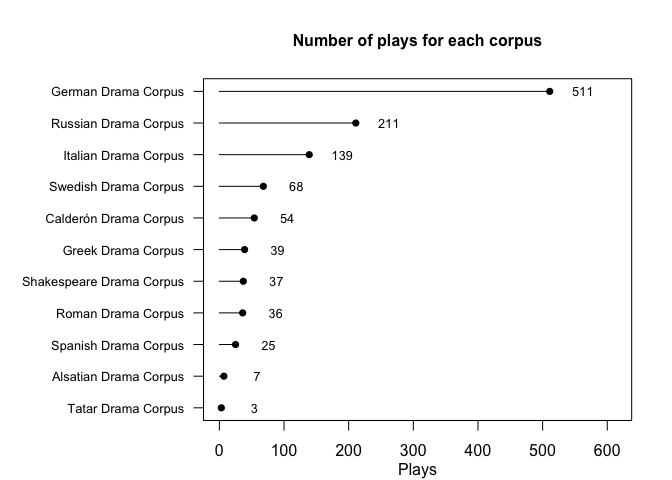
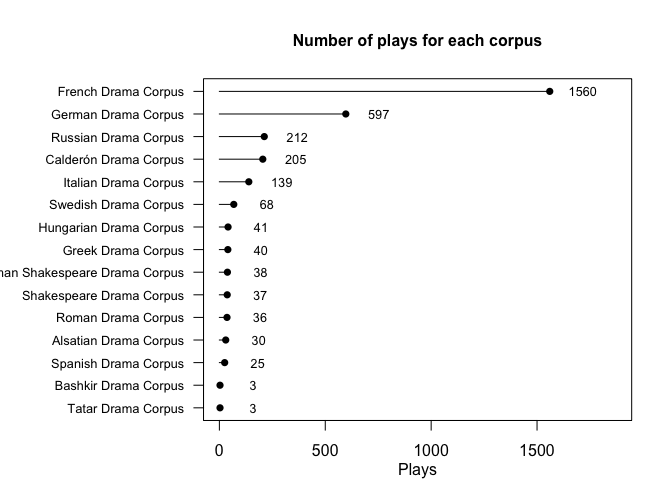
update readme

diff --git a/README.md b/README.md
@@ -6,9 +6,9 @@
 <!-- badges: start -->
 
 [![Travis build
-status](https://travis-ci.org/Pozdniakov/rdracor.svg?branch=master)](https://travis-ci.org/Pozdniakov/rdracor)
+status](https://travis-ci.org/dracor-org/rdracor.svg?branch=master)](https://travis-ci.org/dracor-org/rdracor)
 [![Codecov test
-coverage](https://codecov.io/gh/Pozdniakov/rdracor/branch/master/graph/badge.svg)](https://codecov.io/gh/Pozdniakov/rdracor?branch=master)
+coverage](https://codecov.io/gh/dracor-org/rdracor/branch/master/graph/badge.svg)](https://codecov.io/gh/dracor-org/rdracor?branch=master)
 <!-- badges: end -->
 
 **Authors:** Ivan Pozdniakov, Frank Fischer<br /> **Licence:**
@@ -22,7 +22,7 @@ Project). Website of the project: [dracor.org](https://dracor.org).
 
 ``` r
 #install.packages("remotes") #if you don't have remotes installed
-remotes::install_github("Pozdniakov/rdracor")
+remotes::install_github("dracor-org/rdracor")
 ```
 
 ## General info on corpora
@@ -36,9 +36,9 @@ library(rdracor)
 ``` r
 corpora <- get_dracor_meta()
 summary(corpora)
-#> DraCor hosts 11 corpora comprising 1130 plays.
+#> DraCor hosts 15 corpora comprising 3034 plays.
 #> 
-#> The last updated corpus was German Drama Corpus (2020-12-14 17:52:20).
+#> The last updated corpus was German Drama Corpus (2022-12-22 21:23:40).
 plot(corpora)
 ```
 
@@ -49,37 +49,25 @@ plot(corpora)
 ``` r
 ru <- get_dracor(corpus = "rus")
 summary(ru)
-#> 211 plays in Russian Drama Corpus    
-#> Corpus id: rus, repository: https://github.com/dracor-org/rusdracor
+#> 212 plays in Russian Drama Corpus    
+#> Corpus id: rus, repository: https://github.com/dracor-org/rusdracor  
+#> Description: Edited by Frank Fischer and Daniil Skorinkin. Features more than 200 Russian plays from the 1740s to the 1940s. For a corpus description and full credits please see the [README on GitHub](https://github.com/dracor-org/rusdracor).
 #> Written years (range): 1747 - 1940   
 #> Premiere years (range): 1750 - 1992  
 #> Years of the first printing (range): 1747 - 1986
-ru_au <- authors(ru)
-summary(ru_au)
-#> There are 58 authors in Russian Drama Corpus 
-#> 
-#> Top authors of the Corpus:   
-#> 33 - Островский, Александр Николаевич    
-#> 14 - Сумароков, Александр Петрович   
-#> 14 - Чехов, Антон Павлович   
-#> 10 - Булгаков, Михаил Афанасьевич    
-#> 9 - Тургенев, Иван Сергеевич
-plot(ru_au, top_minplays = 4)
 ```
-
-<img src="man/figures/README-unnamed-chunk-3-1.png" width="100%" />
 
 You can get all corpora at once:
 
 ``` r
 all <- get_dracor()
 summary(all)
-#> 1132 plays in 11 corpora:    
+#> 3034 plays in 15 corpora:    
 #> Corpora id:  
-#> ger (511 plays),rus (211 plays),ita (139 plays),swe (70 plays),cal (54 plays),greek (39 plays),shake (37 plays),rom (36 plays),span (25 plays),als (7 plays),tat (3 plays)
-#> Written years (range): 43 - 1947 
+#> fre (1560 plays), ger (597 plays), rus (212 plays), cal (205 plays), ita (139 plays), swe (68 plays), hun (41 plays), greek (40 plays), gersh (38 plays), shake (37 plays), rom (36 plays), als (30 plays), span (25 plays), bash (3 plays), tat (3 plays)
+#> Written years (range): 43 - 1970 
 #> Premiere years (range): -472 - 1992  
-#> Years of the first printing (range): 1493 - 1986
+#> Years of the first printing (range): 1170 - 2017
 ```
 
 ## Play network
@@ -130,10 +118,59 @@ summary(godunov)
 #>          - Maximum: 29 (Борис)   
 #>      Distance:   
 #>          - Maximum (Diameter): 7 
-#>          - Average: 3.03 
+#>          - Average: 3.45 
 #>    Clustering:   
 #>          - Global: 0.65  
 #>          - Average local: 0.92   
 #>      Cohesion: 1 
 #> Assortativity: -0.06
+```
+
+## Text of the play
+
+You can get text of a play in different forms:
+
+- as a raw TEI (optionally parsed with {xml2})
+
+``` r
+get_play_tei(corpus = "rus", play = "pushkin-boris-godunov")
+#> {xml_document}
+#> <TEI id="rus000042" lang="rus" xmlns="http://www.tei-c.org/ns/1.0">
+#> [1] <teiHeader>\n  <fileDesc>\n    <titleStmt>\n      <title type="main">Бори ...
+#> [2] <standOff>\n  <listEvent>\n    <event type="print" when="1831">\n      <l ...
+#> [3] <text>\n  <front>\n    <docTitle>\n      <titlePart type="main">Борис Год ...
+```
+
+- as a character vector:
+
+``` r
+text_godunov <- get_play_spoken_text(corpus = "rus", play = "pushkin-boris-godunov")
+head(text_godunov)
+#> [1] "Наряжены мы вместе город ведать,"    
+#> [2] "Но, кажется, нам не за кем смотреть:"
+#> [3] "Москва пуста; вослед за патриархом"  
+#> [4] "К монастырю пошел и весь народ."     
+#> [5] "Как думаешь, чем кончится тревога?"  
+#> [6] "Чем кончится? Узнать немудрено:"
+```
+
+- as a data frame:
+
+``` r
+get_play_text_df(corpus = "rus", play = "pushkin-boris-godunov")
+#> # A tibble: 1,993 × 10
+#>    text        type  type_…¹ who   scene scene…² subdi…³ line_id subdi…⁴ scene…⁵
+#>    <chr>       <chr> <chr>   <chr> <chr> <chr>   <chr>     <int>   <int>   <int>
+#>  1 (1598 года… stage ""      <NA>  КРЕМ… scene 1 stage 1       1       1       1
+#>  2 Князья Шуй… stage ""      <NA>  КРЕМ… scene 1 stage 2       2       2       1
+#>  3 Наряжены м… l     ""      voro… КРЕМ… scene 1 sp 1 |…       3       3       1
+#>  4 Но, кажетс… l     ""      voro… КРЕМ… scene 1 sp 1 |…       4       4       1
+#>  5 Москва пус… l     ""      voro… КРЕМ… scene 1 sp 1 |…       5       5       1
+#>  6 К монастыр… l     ""      voro… КРЕМ… scene 1 sp 1 |…       6       6       1
+#>  7 Как думаеш… l     ""      voro… КРЕМ… scene 1 sp 1 |…       7       7       1
+#>  8 Чем кончит… l     ""      shuj… КРЕМ… scene 1 sp 2 |…       8       8       1
+#>  9 Народ еще … l     ""      shuj… КРЕМ… scene 1 sp 2 |…       9       9       1
+#> 10 Борис еще … l     ""      shuj… КРЕМ… scene 1 sp 2 |…      10      10       1
+#> # … with 1,983 more rows, and abbreviated variable names ¹type_attributes,
+#> #   ²scene_path, ³subdiv_path, ⁴subdiv_id, ⁵scene_id
 ```
